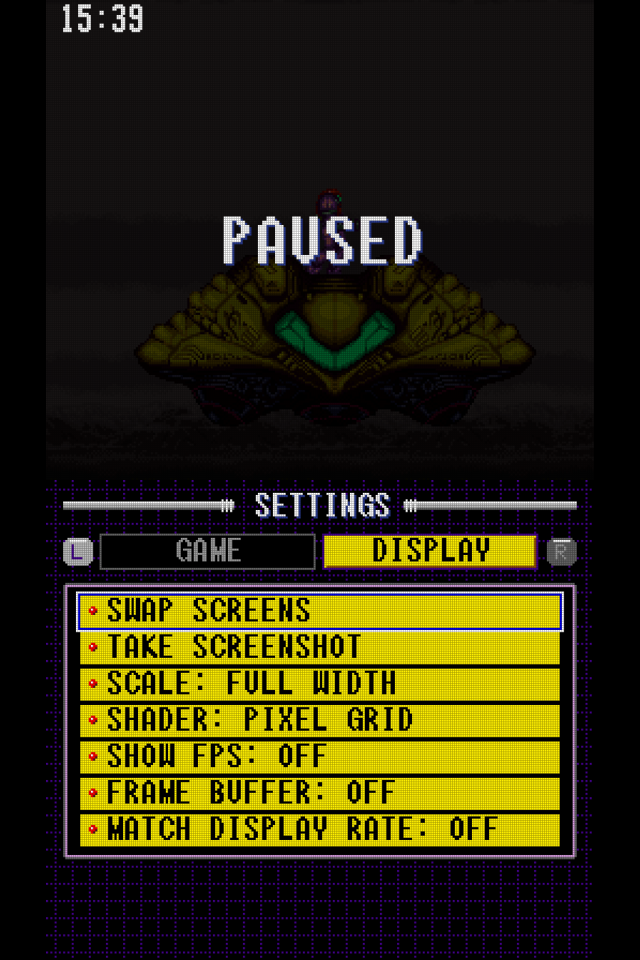
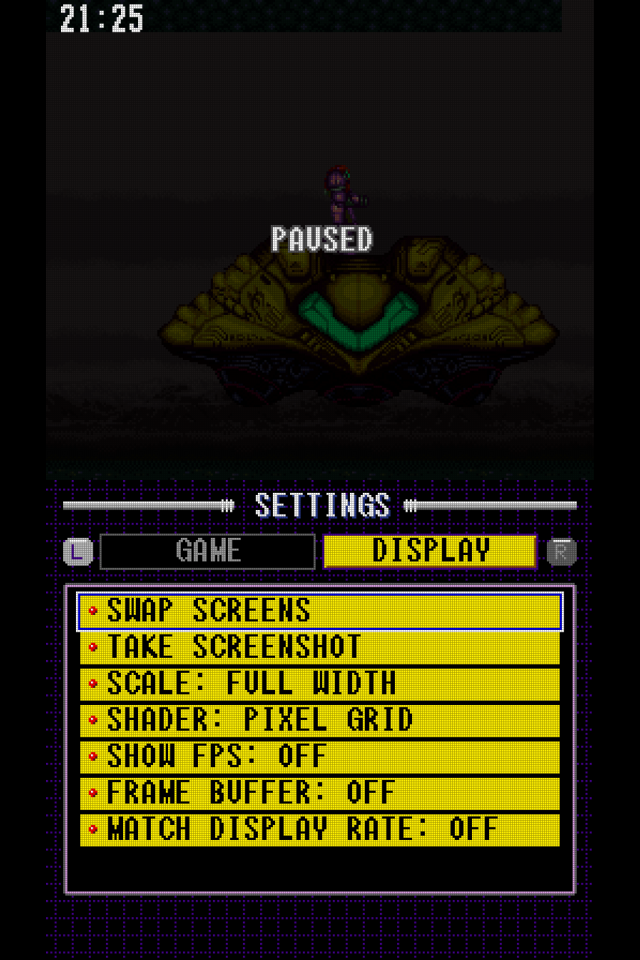
v0.2: SETTINGS MENU label, release
The settings button reads SETTINGS MENU on two lines in the small font.
Version 0.2; the README screenshots are retaken at Full Width with the
pixel grid (the MAP / SAMUS pages, the new pause, the 8-row Game page).

Claude-Session: https://claude.ai/code/session_01XSANKdwaLWqU7kMzjuHK3m

Changed region(s): [[0.2188, 0.1875, 0.8438, 0.4062], [0.0938, 0.875, 0.9062, 0.9375], [0.0938, 0.0, 0.2188, 0.0312]]

diff --git a/src/game.c b/src/game.c
@@ -412,13 +412,15 @@ static void draw_settings_button(int s) {
 	int u = SDL_max(1, img.w / SNES_W);
 	/* the orange of the equipment screen's rows */
 	ui_sm_button_face(s, b, u, buttonPressed, (SDL_Color) { 255, 182, 0, 255 });
-	/* in the game's small lettering, whole pixels a dot, as large as fits
-	 * ("SETTINGS" is 62 dots wide, 5 tall) */
+	/* in the game's small lettering, whole pixels a dot, as large as fits:
+	 * two lines ("SETTINGS" is 62 dots wide, a line 5 tall, 3 between) */
 	int innerW = b.w - u * 4, innerH = b.h - u * 4;
-	int dot = SDL_max(1, SDL_min(innerW / 62, innerH / 5));
-	int cap = dot * 5;
+	int dot = SDL_max(1, SDL_min(innerW / 62, innerH / 13));
+	int cap = dot * 5, step = dot * 8;
 	int off = buttonPressed ? u : 0;
-	ui_font_text(s, TF_SMALL, b.x + b.w / 2 + off, b.y + b.h / 2 + off, cap, "SETTINGS", SM_TEXT_DARK, 0);
+	int cx = b.x + b.w / 2 + off, cy = b.y + b.h / 2 + off;
+	ui_font_text(s, TF_SMALL, cx, cy - step / 2, cap, "SETTINGS", SM_TEXT_DARK, 0);
+	ui_font_text(s, TF_SMALL, cx, cy + step - step / 2, cap, "MENU", SM_TEXT_DARK, 0);
 }
 
 static bool in_rect(SDL_Rect r, int x, int y) {

diff --git a/CHANGELOG.md b/CHANGELOG.md
@@ -1,13 +1,17 @@
 # Changelog
 
-## Unreleased
+## v0.2
+
+The whole pause screen on the second screen, and equipment switched by touch.
+
+**Install:** as before: unzip `super-metroid-ds-v0.2-linux-aarch64.zip` into the ports folder (`/storage/roms/ports` on ROCKNIX, `roms/ports` on a BananaOS card) over v0.1, with your own Super Metroid ROM in `super-metroid-ds/` or your SNES folder. Saves, states and settings carry over.
 
 - The second screen has the whole pause screen: **MAP** and **SAMUS** buttons at the bottom switch between the map and the equipment screen, with a fade to black and back.
 - On the SAMUS page, tap a suit, item, boot or beam to switch it on or off, or MODE for the reserve tanks' AUTO / MANUAL; it takes effect in the running game at once.
 - START pauses the game in place (dimmed) instead of opening the pause screen; the second screen's pages still work while paused. With one screen, START opens the game's own pause screen as before.
 - While the game couldn't be paused (doors, Ceres, cutscenes), the MAP and SAMUS buttons are greyed out and the page is dimmed.
 - Settings → Game → **Full Pause Menu** (off by default) brings back the game's own pause screen on START.
-- PAUSED is smaller, with a dark grey edge like the opening text crawl; the settings button reads SETTINGS, in the game's small font, on the equipment screen's orange.
+- PAUSED is smaller, with a dark grey edge like the opening text crawl; the settings button reads SETTINGS MENU, in the game's small font, on the equipment screen's orange.
 
 ## v0.1
 

diff --git a/README.md b/README.md
@@ -14,8 +14,8 @@ you play.
 (Both screens of an RG DS, 640 x 480 each, with Scale: Full Width and Shader:
 Pixel Grid.)
 
-**v0.1** is for Linux handhelds: ROCKNIX and BananaOS on the RG DS / RG DS
-Plus. Download `super-metroid-ds-v0.1-linux-aarch64.zip` from the
+**v0.2** is for Linux handhelds: ROCKNIX and BananaOS on the RG DS / RG DS
+Plus. Download `super-metroid-ds-v0.2-linux-aarch64.zip` from the
 [releases](https://github.com/kyannon/super-metroid-ds/releases).
 
 - **The game screen has no HUD bar.** The energy / ammo bar is taken off the
@@ -50,7 +50,7 @@ Plus. Download `super-metroid-ds-v0.1-linux-aarch64.zip` from the
   MAP and SAMUS pages work while it's paused (equipment switched then takes
   effect when you go on). With one screen, or with **Full Pause Menu** on
   (Settings → Game), START opens the game's own pause screen as usual.
-- Where the HUD's mini-map was, a **SETTINGS** button (in the game's small lettering) opens the
+- Where the HUD's mini-map was, a **SETTINGS MENU** button (in the game's small lettering) opens the
   settings menu (HOME, or SELECT+START with `menu_combo`, open it too).
 - Menus and messages are drawn in the Super Metroid font, in the colours and
   shapes of the game's pause screen.
